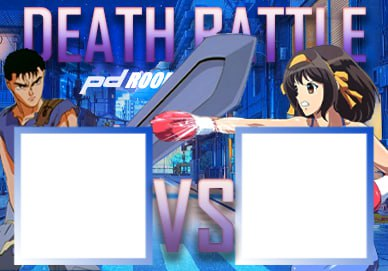
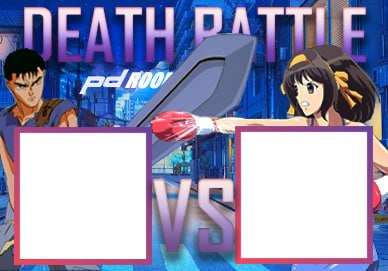
changed twitch module and deathbattle picture

Changed region(s): [[0.5876, 0.4428, 0.9897, 1.0], [0.0309, 0.4428, 0.4021, 1.0]]

diff --git a/twitch.py b/twitch.py
@@ -1,167 +1,134 @@
-import aiohttp
-import asyncio
-import discord
+import requests
 import json
+import asyncio
 import os
+import aiohttp
 
-twitch_stream_file = "twitch_streams.json"
+TWITCH_USER_API_ENDPOINT = 'https://api.twitch.tv/helix/users?login={}'
+TWITCH_STREAM_API_ENDPOINT = 'https://api.twitch.tv/helix/streams?user_id={}'
+TWITCH_STREAMS_JSON = "twitch_streams.json"
 
+with open("config.json", "r") as f:
+    config = json.load(f)
 
-def load_twitch_streams():
-    if not os.path.exists(twitch_stream_file):
-        with open(twitch_stream_file, "w") as f:
-            json.dump([], f)
+if os.path.exists(TWITCH_STREAMS_JSON):
+    with open(TWITCH_STREAMS_JSON, "r") as f:
+        twitch_data = json.load(f)
+else:
+    twitch_data = {}
 
-    with open(twitch_stream_file, "r") as f:
-        try:
-            loaded_data = json.load(f)
-        except json.JSONDecodeError:
-            loaded_data = []
+online_streamers = set()
 
-    return loaded_data
-
-async def handle_twitch(ctx, streamer, announcement_channel: discord.TextChannel = None):
-    streams = load_twitch_streams()
-
-    # Check if the input is a URL or just the streamer's name
-    if streamer.startswith("http"):
-        stream_link = streamer
-    else:
-        stream_link = f"https://www.twitch.tv/{streamer}"
-
-    # Check if the stream already exists
-    if any(stream["url"].lower() == stream_link.lower() for stream in streams):
-        await ctx.send(f"Стрим {stream_link} уже существует.")
-        return
-
-    stream_data = {
-        "url": stream_link,
-        "channel_id": ctx.channel.id,
-        "announcement_channel_id": announcement_channel.id if announcement_channel else ctx.channel.id,
-        "live": False
-    }
-    streams.append(stream_data)
-    with open(twitch_stream_file, "w") as f:
-        json.dump(streams, f)
-    await ctx.send(f"Добавила в список: {stream_link}")
-
-
-async def check_twitch_live_status(stream_url, twitch_client_id, twitch_client_secret):
-    async with aiohttp.ClientSession() as session:
-        access_token = await get_twitch_access_token(session, twitch_client_id, twitch_client_secret)
-        headers = {
-            "Client-ID": twitch_client_id,
-            "Authorization": f"Bearer {access_token}"
+class Twitch:
+    def __init__(self):
+        self.client_id = config["TWITCH_CLIENT_ID"]
+        self.client_secret = config["TWITCH_CLIENT_SECRET"]
+        self.oauth_token = self.get_app_access_token()
+        self.headers = {
+            "Client-ID": self.client_id,
+            "Authorization": f"Bearer {self.oauth_token}"
         }
-        user_login = stream_url.split('/')[-1]
-        url = f"https://api.twitch.tv/helix/streams?user_login={user_login}"
-        async with session.get(url, headers=headers) as response:
-            data = await response.json()
-            return len(data.get("data", [])) > 0
 
-async def twitch_checker(bot, twitch_client_id, twitch_client_secret):
-    await bot.wait_until_ready()
-    
-    # Check for active streams when the bot starts
-    streams = load_twitch_streams()
-    async with aiohttp.ClientSession() as session:
-        access_token = await get_twitch_access_token(session, twitch_client_id, twitch_client_secret)
-        for stream in streams:
-            user_data, stream_data, game_data = await get_stream_info(session, stream["url"], twitch_client_id, access_token)
-            live_status = len(stream_data.get("data", [])) > 0
-            if live_status:
-                stream["live"] = True
-                channel = bot.get_channel(stream["announcement_channel_id"])
-                await send_stream_embed(channel, user_data, stream_data, game_data, stream)
-                
-    # Check for live streams regularly
-    while not bot.is_closed():
-        streams = load_twitch_streams()
+    def get_app_access_token(self):
+        url = 'https://id.twitch.tv/oauth2/token'
+        params = {
+            "client_id": self.client_id,
+            "client_secret": self.client_secret,
+            "grant_type": "client_credentials"
+        }
+        response = requests.post(url, params=params).json()
+        if "access_token" in response:
+            return response["access_token"]
+        else:
+            print(f"Unexpected response while getting app access token: {response}")
+            return None
+        
+    async def get_user_info(self, streamer_name):
+        url = f"https://api.twitch.tv/helix/users?login={streamer_name}"
         async with aiohttp.ClientSession() as session:
-            access_token = await get_twitch_access_token(session, twitch_client_id, twitch_client_secret)
-            for stream in streams:
-                user_data, stream_data, game_data = await get_stream_info(session, stream["url"], twitch_client_id, access_token)
-                live_status = len(stream_data.get("data", [])) > 0
-                if not stream["live"] and live_status:
-                    stream["live"] = True
-                    channel = bot.get_channel(stream["announcement_channel_id"])
-                    user = user_data["data"][0]
-                    stream_info = stream_data["data"][0]
-                    game_name = game_data["data"][0]["name"] if game_data else "Неизвестная игра"
-                    embed = discord.Embed(
-                        title=stream_info["title"],
-                        url=stream["url"],
-                        description=f"**Игра:** {game_name}",
-                        color=discord.Color.blue()
-                    )
-                    embed.set_author(name=user['display_name'], url=stream["url"], icon_url=user["profile_image_url"])
-                    embed.set_thumbnail(url=user["profile_image_url"])
-                    embed.set_image(url=stream_info["thumbnail_url"].format(width=640, height=360))
-                    await channel.send(embed=embed)
-                elif stream["live"] and not live_status:
-                    stream["live"] = False
-        with open(twitch_stream_file, "w") as f:
-            json.dump(streams, f)
-        await asyncio.sleep(60)
+            async with session.get(url, headers=self.headers) as resp:
+                user_info = await resp.json()
+        return user_info
 
-async def send_stream_embed(channel, user_data, stream_data, game_data, stream):
-    user = user_data["data"][0]
-    stream_info = stream_data["data"][0]
-    game_name = game_data["data"][0]["name"] if game_data else "Неизвестная игра"
-    embed = discord.Embed(
-        title=stream_info["title"],
-        url=stream["url"],
-        description=f"**Игра:** {game_name}",
-        color=discord.Color.blue()
+    def get_stream_by_name(self, streamer_name):
+        response = requests.get(TWITCH_USER_API_ENDPOINT.format(streamer_name), headers=self.headers)
+        try:
+            user_data = response.json()
+            if user_data["data"]:
+                user_id = user_data["data"][0]["id"]
+                stream_response = requests.get(TWITCH_STREAM_API_ENDPOINT.format(user_id), headers=self.headers)
+                return stream_response.json()
+        except json.JSONDecodeError:
+            print(f"Failed to parse JSON from response: {response.text}")
+            return None
+
+twitch_api = Twitch()
+
+from discord import Embed
+
+async def post_stream_live_notification(bot, stream):
+    user_info = await twitch_api.get_user_info(stream["data"][0]["user_name"])
+    avatar_url = user_info['data'][0]['profile_image_url']
+
+    # Select a Discord channel to post the notification to.
+    channel = bot.get_channel(config["DISCORD_CHANNEL_ID"])
+
+    # Create the embed message.
+    embed = Embed(
+        title=stream["data"][0]["title"],
+        url=f"https://www.twitch.tv/{stream['data'][0]['user_name']}",
+        color=0x9146ff
     )
-    embed.set_author(name=user['display_name'], url=stream["url"], icon_url=user["profile_image_url"])
-    embed.set_image(url=stream_info["thumbnail_url"].format(width=640, height=360))
+    embed.add_field(name="Игра", value=stream["data"][0]["game_name"])
+    embed.set_thumbnail(url=avatar_url)
+    embed.set_author(name=stream["data"][0]["user_name"], icon_url=avatar_url)
+    embed.set_image(url=stream["data"][0]["thumbnail_url"].format(width=640, height=360))
+
+    # Post the message to the Discord channel.
     await channel.send(embed=embed)
 
+async def handle_twitch(ctx, streamer_name):
+    if streamer_name not in twitch_data:
+        stream = twitch_api.get_stream_by_name(streamer_name)
+        if stream and stream["data"]:
+            twitch_data[streamer_name] = stream
+            with open(TWITCH_STREAMS_JSON, "w") as f:
+                json.dump(twitch_data, f, indent=4)
+            await ctx.send(f"Добавила {streamer_name} в список.")
+        else:
+            await ctx.send("Нет такого стримера.")
+    else:
+        await ctx.send("Такой стример уже есть в списке.")
+
 async def remove_stream(ctx, streamer_name):
-    streams = load_twitch_streams()
-    removed = False
-    for i, stream in enumerate(streams):
-        if stream['url'].lower().endswith(streamer_name.lower()):
-            removed = True
-            del streams[i]
-            break
-
-    if removed:
-        with open(twitch_stream_file, "w") as f:
-            json.dump(streams, f)
-        await ctx.send(f"Удалила стрим {streamer_name}.")
+    if streamer_name in twitch_data:
+        del twitch_data[streamer_name]
+        with open(TWITCH_STREAMS_JSON, "w") as f:
+            json.dump(twitch_data, f, indent=4)
+        await ctx.send(f"Удалила {streamer_name} из списка.")
     else:
-        await ctx.send(f"Не нашла стрим {streamer_name}.")
+        await ctx.send("Нет такого стримера!")
 
-async def get_stream_info(session, stream_url, twitch_client_id, access_token):
-    headers = {
-        "Client-ID": twitch_client_id,
-        "Authorization": f"Bearer {access_token}"
-    }
-    user_login = stream_url.split('/')[-1]
-    user_info_url = f"https://api.twitch.tv/helix/users?login={user_login}"
-    stream_info_url = f"https://api.twitch.tv/helix/streams?user_login={user_login}"
-    
-    async with session.get(user_info_url, headers=headers) as user_response:
-        user_data = await user_response.json()
-    
-    async with session.get(stream_info_url, headers=headers) as stream_response:
-        stream_data = await stream_response.json()
-    
-    if stream_data.get("data"):
-        game_id = stream_data["data"][0]["game_id"]
-        game_info_url = f"https://api.twitch.tv/helix/games?id={game_id}"
-        async with session.get(game_info_url, headers=headers) as game_response:
-            game_data = await game_response.json()
-    else:
-        game_data = None
-
-    return user_data, stream_data, game_data
+async def check_streams(bot):
+    while True:
+        for streamer_name in twitch_data.keys():
+            stream = twitch_api.get_stream_by_name(streamer_name)
+            if stream and stream["data"]:
+                # Streamer is online.
+                if streamer_name not in online_streamers:
+                    print(f"Streamer {streamer_name} has just gone online.")
+                    online_streamers.add(streamer_name)
+                    await post_stream_live_notification(bot, stream)
+                else:
+                    print(f"Streamer {streamer_name} is still online.")
+            else:
+                # Streamer is offline.
+                if streamer_name in online_streamers:
+                    print(f"Streamer {streamer_name} has just gone offline.")
+                    online_streamers.remove(streamer_name)
+                else:
+                    print(f"Streamer {streamer_name} is still offline.")
+        await asyncio.sleep(60)  # Check every minute.
 
 
-async def get_twitch_access_token(session, twitch_client_id, twitch_client_secret):
-    url = f"https://id.twitch.tv/oauth2/token?client_id={twitch_client_id}&client_secret={twitch_client_secret}&grant_type=client_credentials"
-    async with session.post(url) as response:
-        data = await response.json()
-        return data["access_token"]
+

diff --git a/main.py b/main.py
@@ -11,7 +11,7 @@ from links import handle_link, handle_unlink, handle_links, save_user_links, use
 from avatar import handle_avatar
 from music import (join_channel, play_music, pause_music, resume_music, stop_music,
                   leave_channel, skip_song, show_queue, auto_leave)
-from twitch import load_twitch_streams, twitch_checker, handle_twitch, remove_stream
+from twitch import handle_twitch, remove_stream, check_streams
 from giveaway import handle_giveaway
 from deathbattle import handle_deathbattle
 from admin import clear_messages
@@ -135,15 +135,16 @@ async def skip(ctx):
     await skip_song(ctx)
 
 @bot.hybrid_command()
-async def twitch(ctx, stream_link: str, announcement_channel: discord.TextChannel = None):
-    await handle_twitch(ctx, stream_link, announcement_channel)
+async def twitch(ctx, streamer_name: str):
+    await handle_twitch(ctx, streamer_name)
 
 @bot.hybrid_command()
 @commands.has_permissions(administrator=True)
-async def twitch_remove(ctx, streamer_name):
+async def twitch_remove(ctx, streamer_name: str):
     await remove_stream(ctx, streamer_name)
 
 @bot.hybrid_command()
+@commands.has_permissions(administrator=True)
 async def giveaway(ctx, duration: str, *, description: str):
     await handle_giveaway(ctx, duration, description=description)
 
@@ -165,7 +166,7 @@ async def on_ready():
     print(f"Logged in as {bot.user.name}")
     await bot.tree.sync()
     await bot.change_presence(activity=discord.Game(name="Делаю милые вещи и пью чай"))
-    bot.loop.create_task(twitch_checker(bot, config["TWITCH_CLIENT_ID"], config["TWITCH_CLIENT_SECRET"])) 
+    bot.loop.create_task(check_streams(bot))
 
 if __name__ == "__main__":
     bot.run(config["BOT_TOKEN"])
